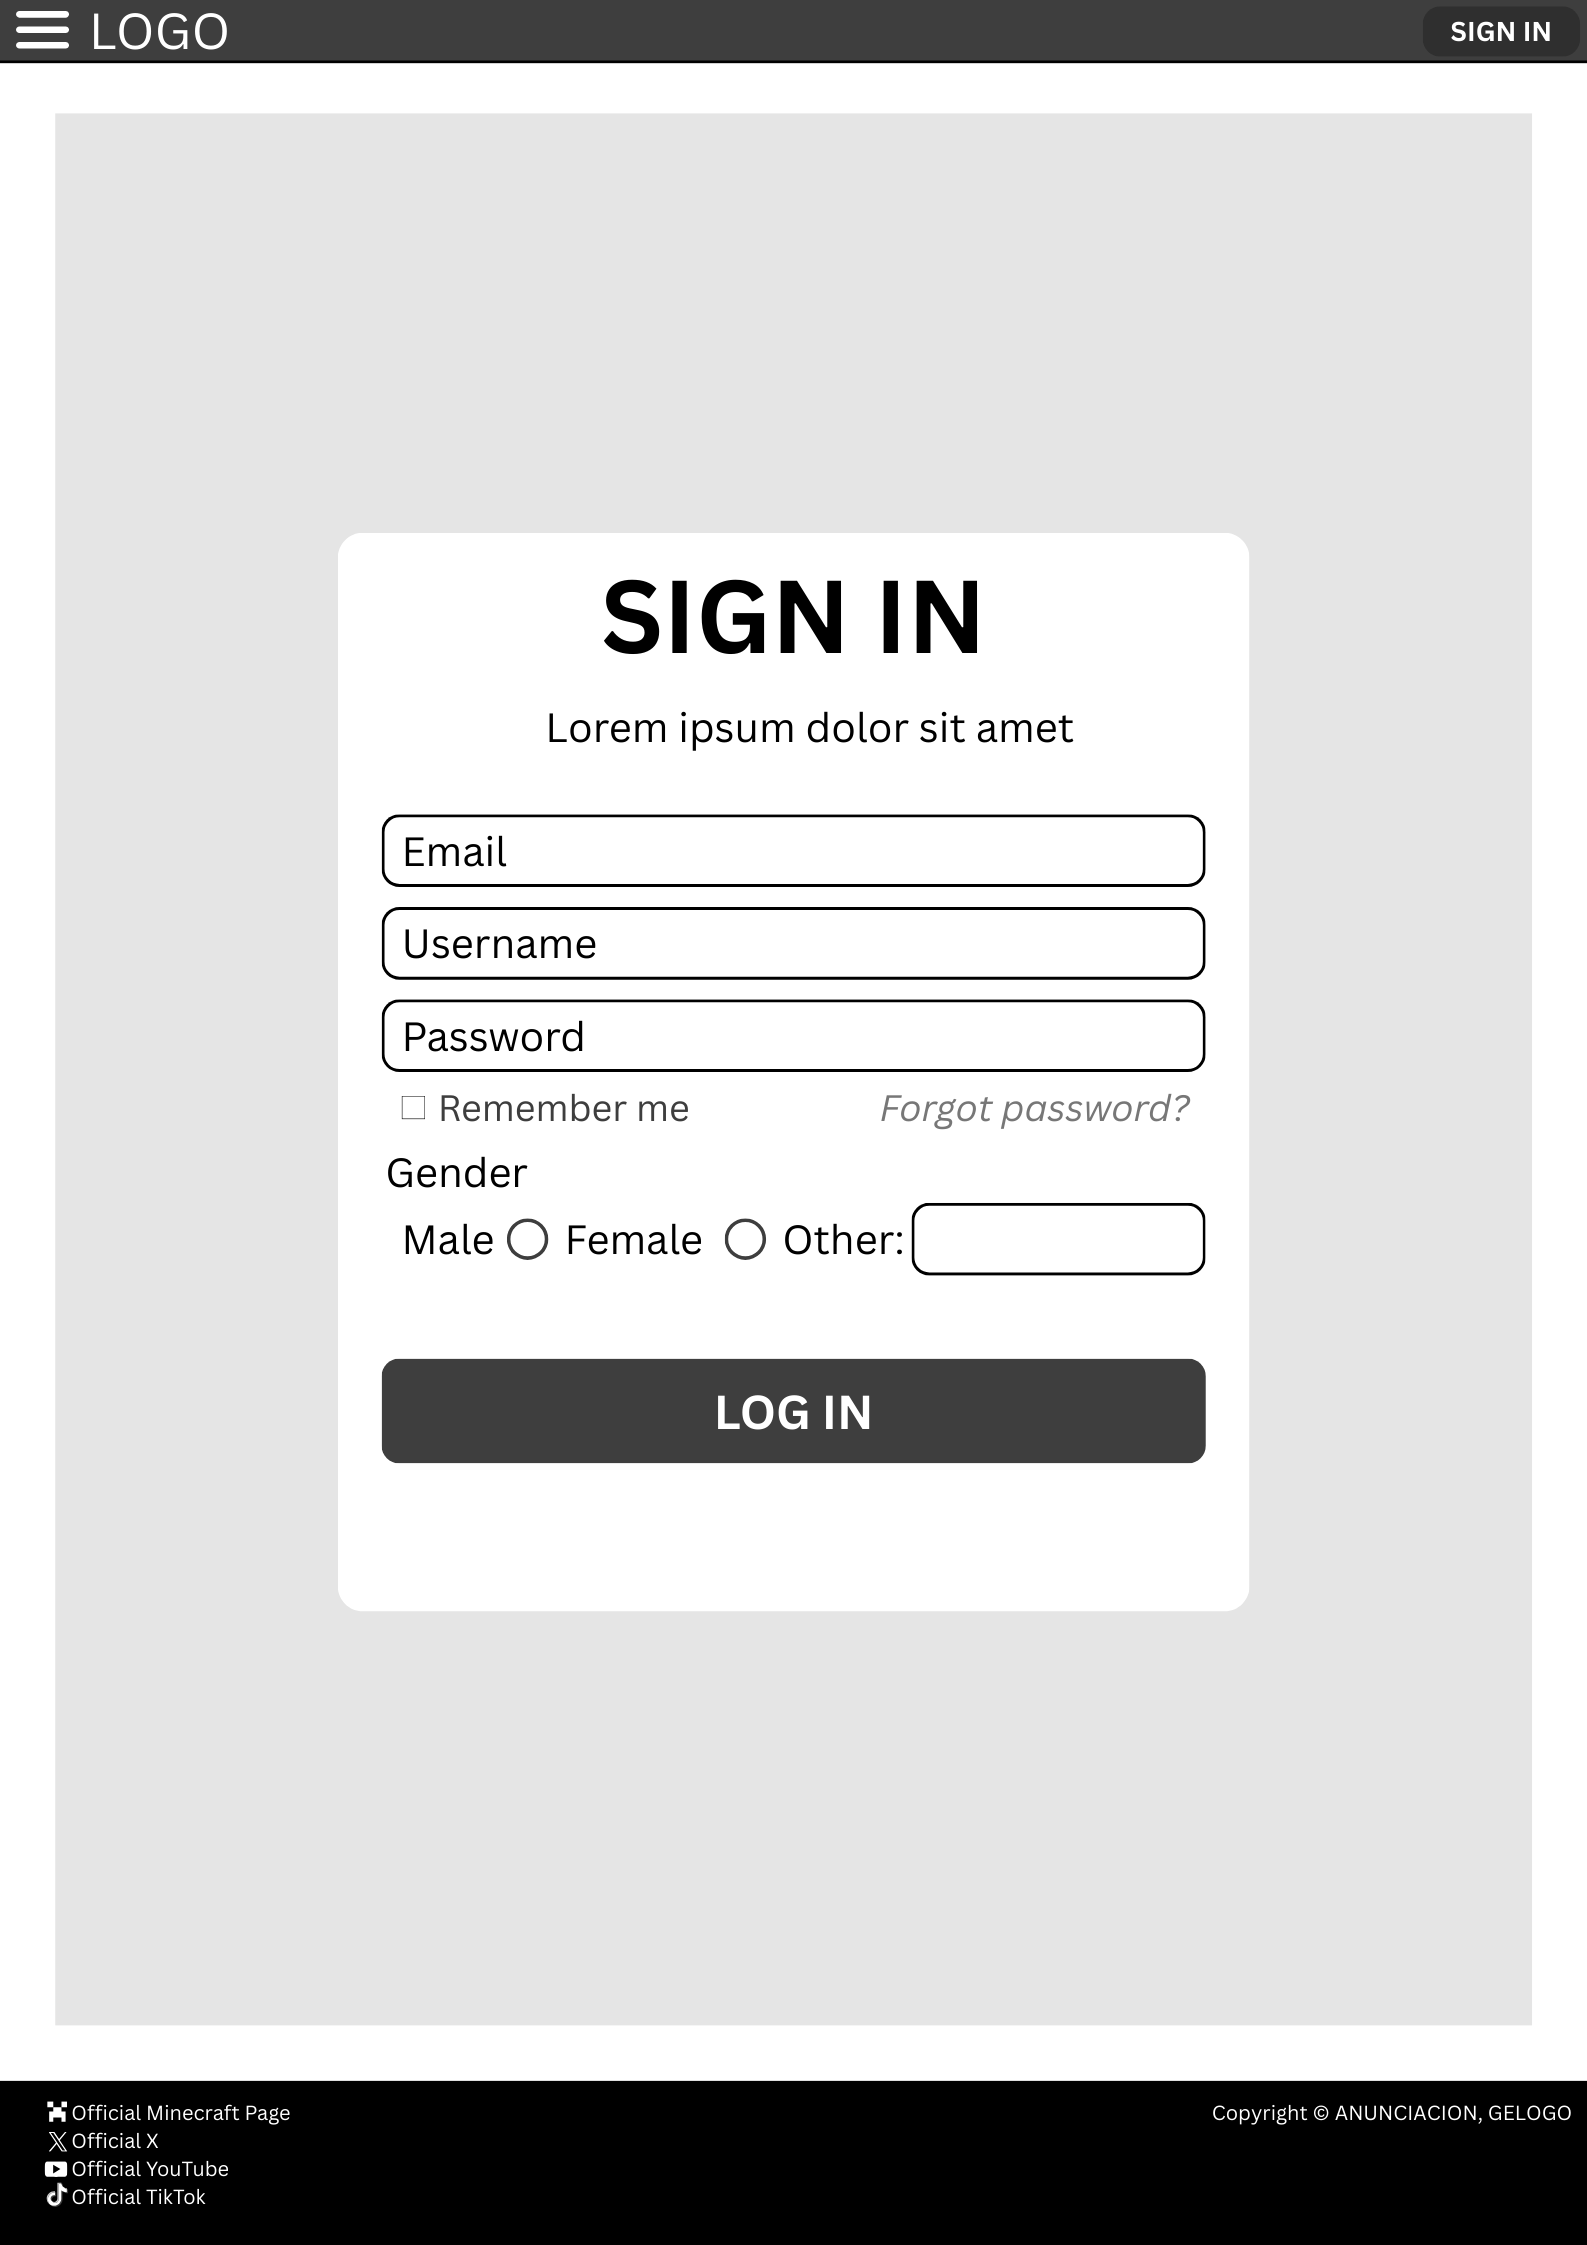
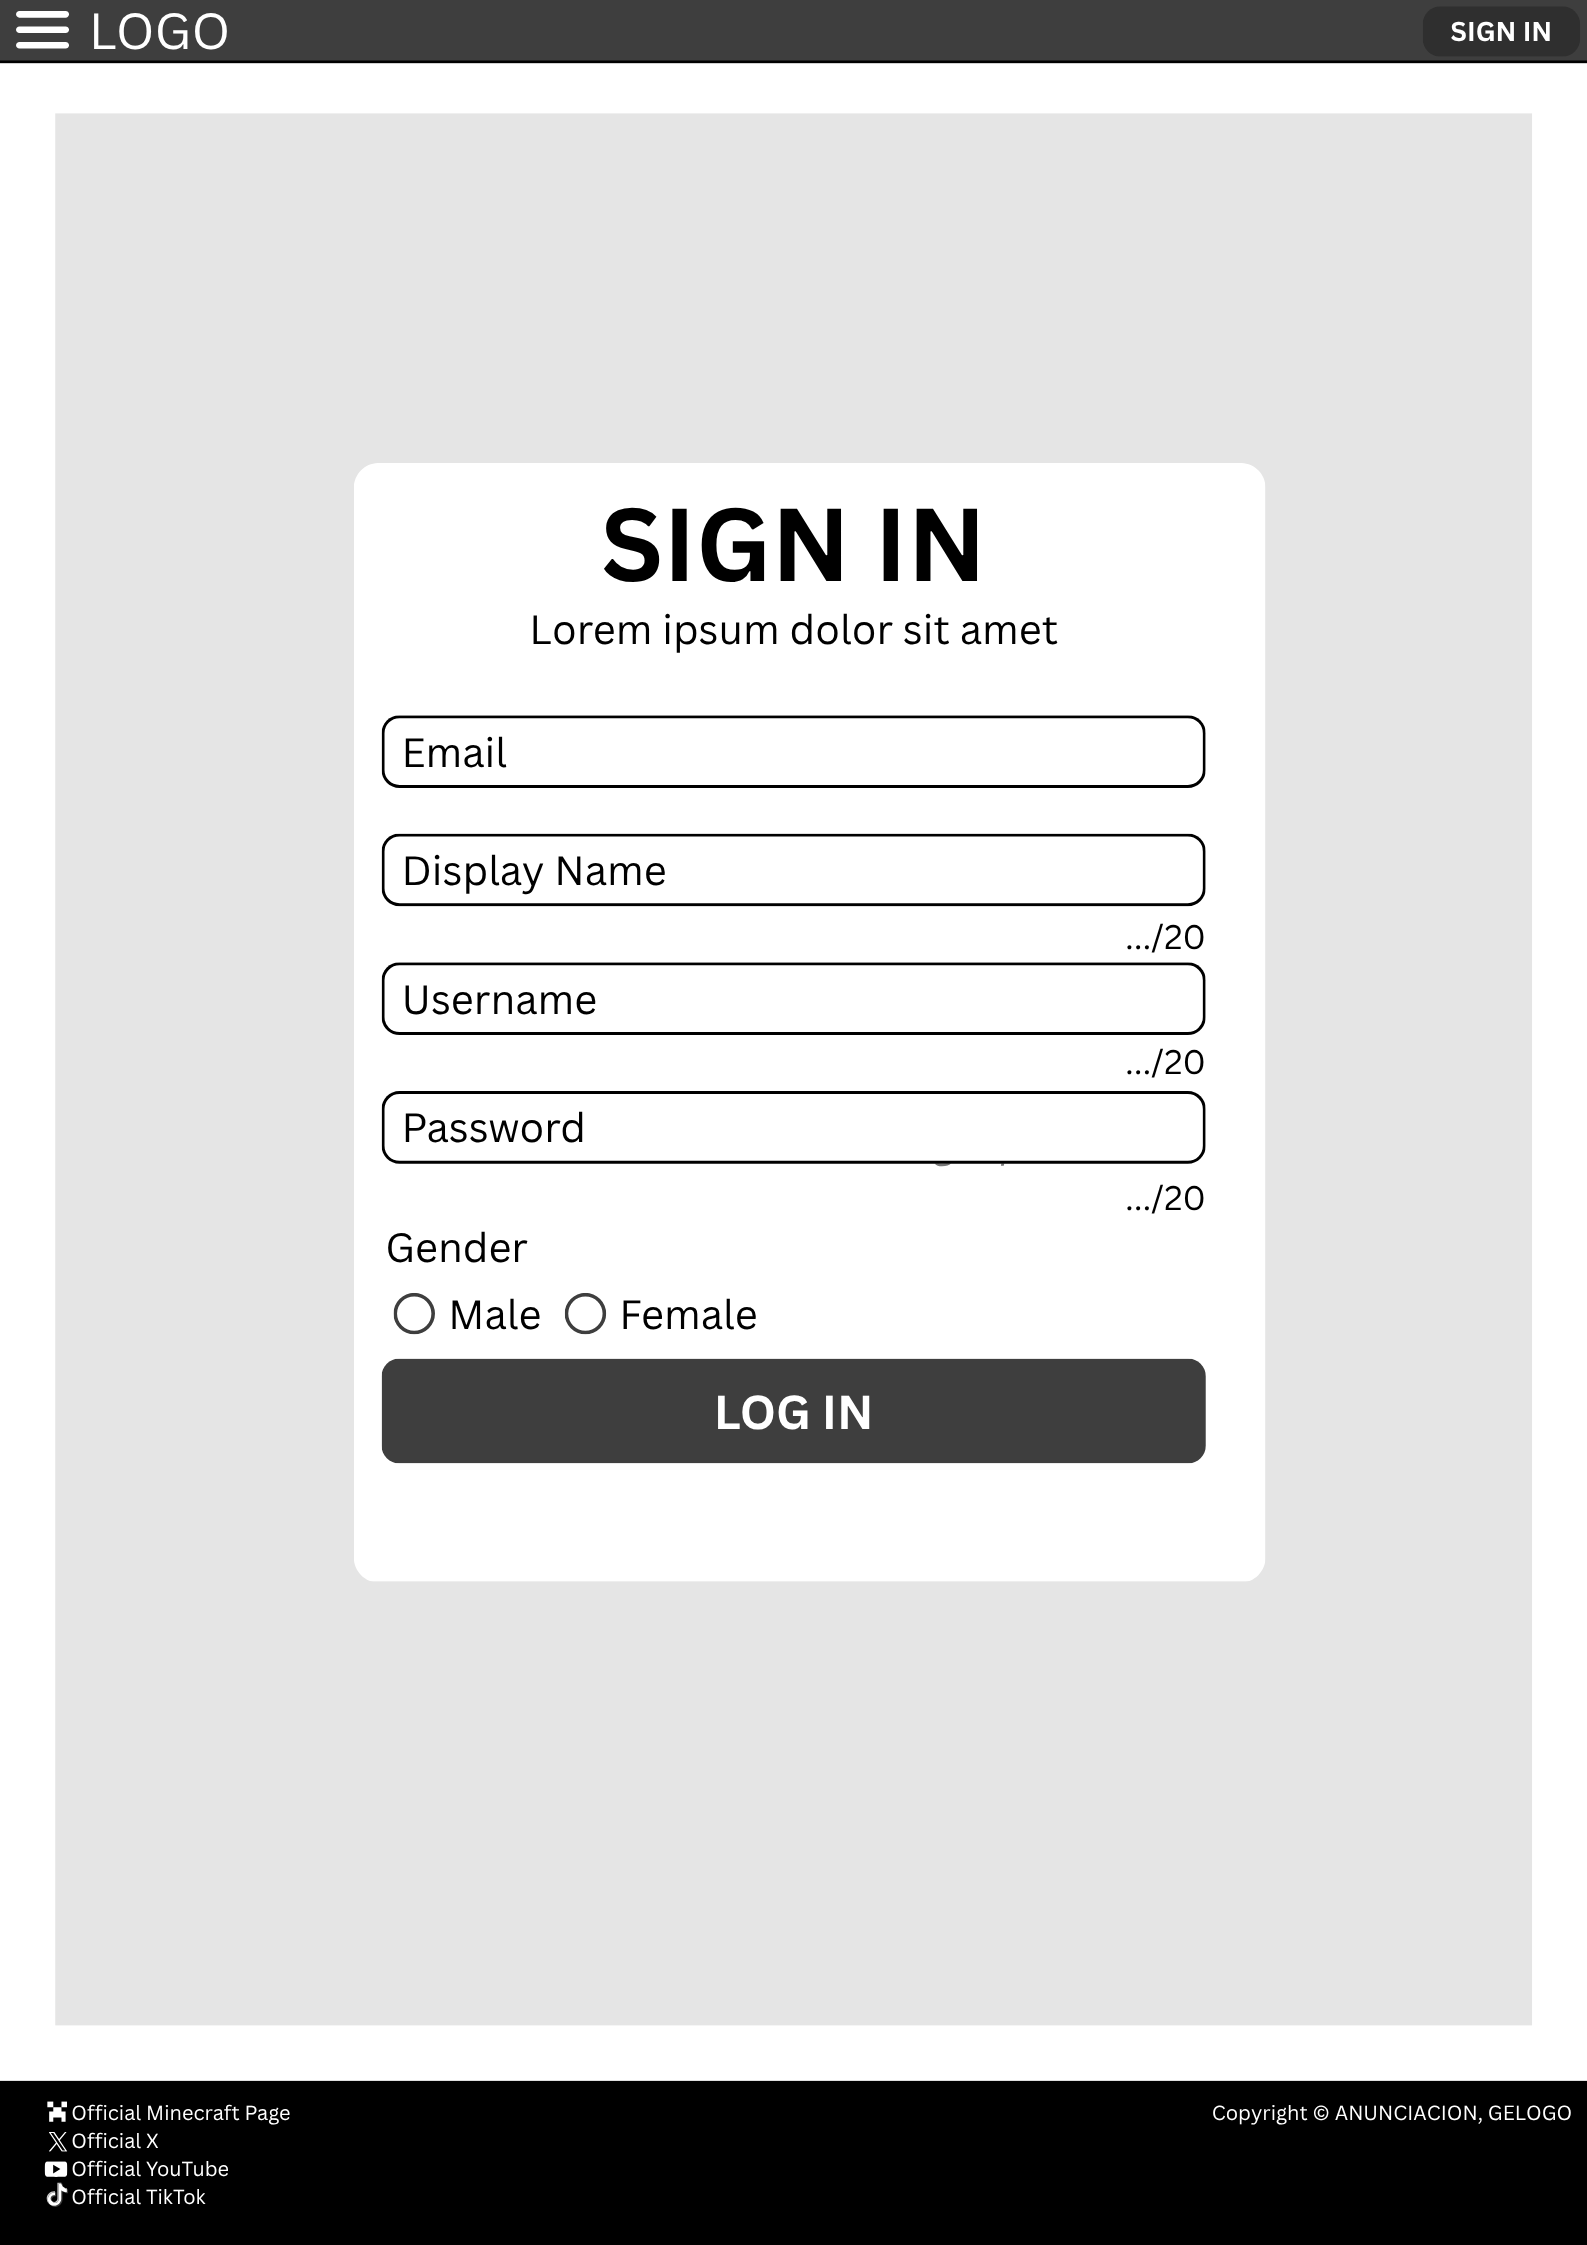
twenty sixth

Changed region(s): [[0.1853, 0.1871, 0.8028, 0.7171], [0.4631, 0.5301, 0.5866, 0.5612]]

diff --git a/README.md b/README.md
@@ -32,6 +32,48 @@
 # JavaScript use:
 ### JavaScript will be utilized on the website to create interactive elements such as expandable and collapsible panels that reveal additional information. Examples include the hamburger menu, which displays various links when clicked, and accordions that expand downward to provide more detailed content.
 ---
+# FINAL MODIFICATION PROPOSAL
+---
+## Design and Narrative
+### Purpose
+The last change of Block by Block is the implementation of Full CRUD (Create, Read, Update, Delete) with the help of localStorage. This enables the site to cross over into the domain of being purely informational and be an interactive site in which users are able to control their own information.
+---
+### How It Will Be Used
+#### Create (C)
+The Login page requires the user to input his/her data (email, username, display name, gender). This data is stored to the local storage.
+#### Read (R)
+The data stored is accessed and presented in:
+- The user display (username) in the navigation bar.
+- The profile preview section
+- Other pages of the site such as the forums page.
+#### Update (U)
+In the Profile Customization page, users are allowed to update their profile information. After saving, the revised data is stored and then replaces the earlier data in the localStorage.
+#### Delete (D)
+Aside from a log out button, the profile preview section on the top right hand side of the website sports a delete account button, which triggers a confirmation pup-up when pressed before then deleting the account if confirmed.
+---
+## Updated Design / Features
+### Login Page (Updated)
+User input is now stored in the local storage of the login page. It also traces the presence of a user in the system with the help of a stored flag.
+---
+In this version, the user is able to customize the profile by selecting additional background colors and additional features that suit their taste and needs (Myspace, 2009).<|human|>Profile Customization Page (Revised) In this version, the user can customize the profile by using more background color options and more features that fits the taste and needs (Myspace, 2009).
+---
+## Wireframe Updates
+We plan on modifying the website to have an actual profile preview section on the top right hand side of every single website. Upon clicking the profile section in the navigation bar, a panel will drop, featuring information such as the profile preview (which includes the profile picture, username, display name, and pronouns) as well as a selection of the previously created accounts (if any), which allows users to quickly switch between accounts. This panel also features a log out and delete button, which sends the users back to the sign-in page.
+---
+## JavaScript Implementation
+The following is used to implement the CRUD system:
+#### Create / Update
+`localStorage.setItem()`
+#### Read
+`localStorage.getItem()`
+#### Delete
+`localStorage.removeItem()`
+---
+### JavaScript is also used to:
+- Change the preview of the profile dynamically.
+- Match form entries with records.
+- Monitor access to and exit of users.
+- Manage page redirection
 ### Notes:
 * The down arrows ↓↓ indicates an accordion, a panel that expands downwards when clicked. This will provide additional information on the topic the accordion is attached to.
 * The vertical ellipsis ⋮ represents a scroll button. This indicates that there is more information further down that cannot be visualized by a wire frame due to the limited size.
@@ -41,6 +83,8 @@
 ![Front Page](assets/wireframes/frontpage-wireframe.png)
 ### Home Page (Expanded)
 ![Front Page — Expanded](assets/wireframes/frontpage-expanded-wireframe.png)
+### Home Page (Expanded — with Profile)
+![Front Page — ExpandedProfile](assets/wireframes/frontpage-profile-expanded-wireframe.png)
 ### First Page — Mechanics
 ![Mechanics](assets/wireframes/mechanics-wireframe.png)
 ### Second Page — Dimensions
